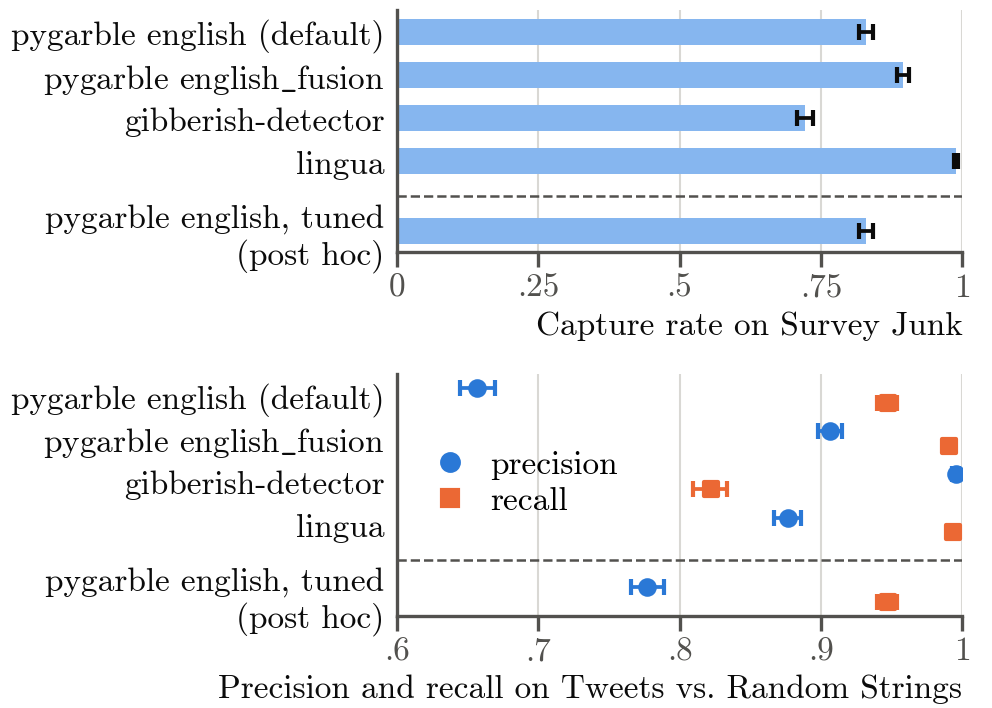
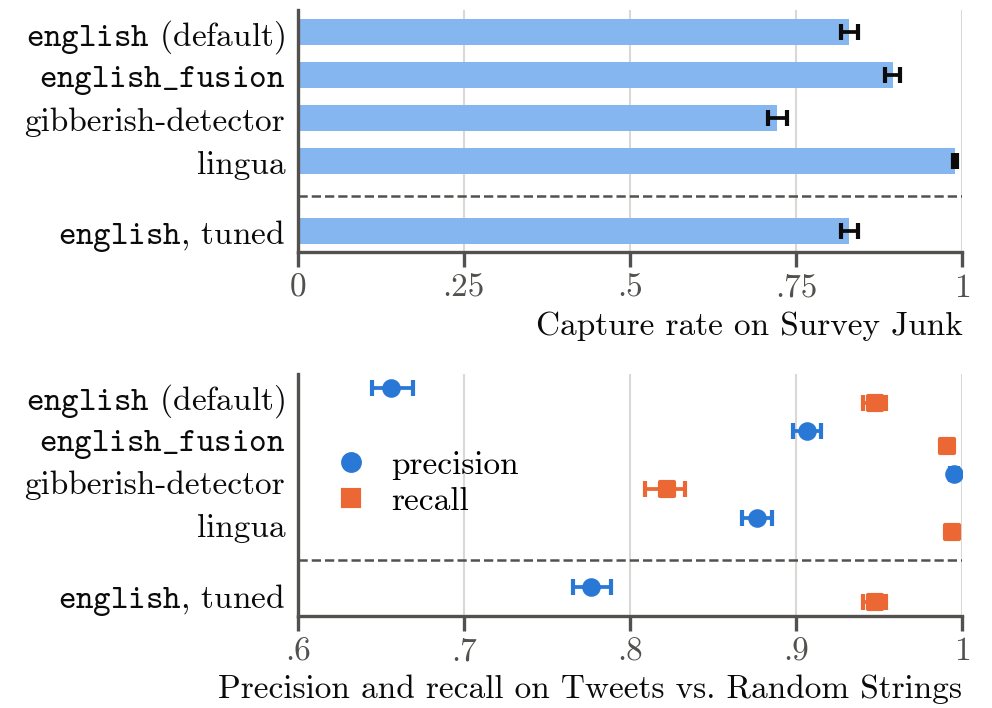
Shorten method labels so no table or figure row wraps
Rows read english (default), english_fusion, gibberish-detector, lingua
and english, tuned, with pygarble profile names in typewriter type. The
Method columns no longer wrap, and the footprint headers are ms/1k,
Import (s), Install (MB) and Deps.

diff --git a/paper/scripts/benchmark/figures.py b/paper/scripts/benchmark/figures.py
@@ -34,19 +34,19 @@ TABLES = PREPRINT / "tables"
 UNTUNED = ("english", "english_fusion", "gibberish_detector", "lingua")
 TUNED = ("english_tuned",)
 LABELS = {
-    "english": r"pygarble \texttt{english} (default)",
-    "english_fusion": r"pygarble \texttt{english\_fusion}",
-    "gibberish_detector": r"\texttt{gibberish-\allowbreak detector}",
-    "lingua": r"\texttt{lingua}",
-    "english_tuned": r"pygarble \texttt{english}, tuned (post hoc)",
-}
-PLAIN = {
-    "english": "pygarble english (default)",
-    # cmr10 has no underscore glyph; mathtext draws one.
-    "english_fusion": r"pygarble english$\_$fusion",
+    "english": r"\texttt{english} (default)",
+    "english_fusion": r"\texttt{english\_fusion}",
     "gibberish_detector": "gibberish-detector",
     "lingua": "lingua",
-    "english_tuned": "pygarble english, tuned\n(post hoc)",
+    "english_tuned": r"\texttt{english}, tuned",
+}
+# Typewriter marks the pygarble profiles, as in the tables.
+PLAIN = {
+    "english": r"$\mathtt{english}$ (default)",
+    "english_fusion": r"$\mathtt{english\_fusion}$",
+    "gibberish_detector": "gibberish-detector",
+    "lingua": "lingua",
+    "english_tuned": r"$\mathtt{english}$, tuned",
 }
 # Runtime dependencies, read from the installed distributions: none of the
 # three declares a requirement. gibberish-detector ships no model and the
@@ -199,7 +199,7 @@ def figure_results(methods: Dict[str, Any]) -> None:
         labelspacing=0.2,
     )
     fig.subplots_adjust(
-        left=0.4, right=0.97, top=0.985, bottom=0.13, hspace=0.5
+        left=0.3, right=0.97, top=0.985, bottom=0.13, hspace=0.5
     )
     save(fig, "fig1_results")
 
@@ -234,7 +234,7 @@ def survey_table(methods: Dict[str, Any]) -> str:
     """Capture rate on Survey Junk, every row of which is junk."""
     lines = [
         "% Generated by paper/scripts/benchmark/figures.py; do not edit.",
-        r"\begin{tabular}{@{}>{\raggedright\arraybackslash}p{3.7cm}cc@{}}",
+        r"\begin{tabular}{@{}lcc@{}}",
         r"\toprule",
         r"Method & Capture rate & 95\% CI \\",
         r"\midrule",
@@ -266,7 +266,7 @@ def tweets_table(methods: Dict[str, Any]) -> str:
 
     lines = [
         "% Generated by paper/scripts/benchmark/figures.py; do not edit.",
-        r"\begin{tabular}{@{}>{\raggedright\arraybackslash}p{2.4cm}"
+        r"\begin{tabular}{@{}l"
         r"@{\hspace{4pt}}c@{\hspace{4pt}}c@{\hspace{4pt}}c@{}}",
         r"\toprule",
         r"Method & Precision & Recall & FPR \\",
@@ -284,9 +284,6 @@ def tweets_table(methods: Dict[str, Any]) -> str:
 def footprint_table(footprint: Dict[str, Any]) -> str:
     """Speed, import time, install size and dependencies per method."""
 
-    def head(*text: str) -> str:
-        return stack(list(text), "c", "b")
-
     def cells(name: str) -> List[str]:
         row = footprint[name]
         return [
@@ -298,17 +295,17 @@ def footprint_table(footprint: Dict[str, Any]) -> str:
 
     lines = [
         "% Generated by paper/scripts/benchmark/figures.py; do not edit.",
-        r"\begin{tabular}{@{}>{\raggedright\arraybackslash}p{2.4cm}"
-        r"@{\hspace{4pt}}r@{\hspace{4pt}}r@{\hspace{4pt}}r"
-        r"@{\hspace{4pt}}l@{}}",
+        r"\begin{tabular}{@{}l"
+        r"@{\hspace{5pt}}r@{\hspace{5pt}}r@{\hspace{5pt}}r"
+        r"@{\hspace{5pt}}l@{}}",
         r"\toprule",
         "Method & "
         + " & ".join(
             [
-                head("ms per", "1,000 texts"),
-                head("Import", "time (s)"),
-                head("Install", "size (MB)"),
-                head("Runtime", "deps."),
+                "ms/1k",
+                "Import (s)",
+                "Install (MB)",
+                "Deps",
             ]
         )
         + r" \\",

diff --git a/paper/preprint/tables/table_tweets.tex b/paper/preprint/tables/table_tweets.tex
@@ -1,13 +1,13 @@
 % Generated by paper/scripts/benchmark/figures.py; do not edit.
-\begin{tabular}{@{}>{\raggedright\arraybackslash}p{2.4cm}@{\hspace{4pt}}c@{\hspace{4pt}}c@{\hspace{4pt}}c@{}}
+\begin{tabular}{@{}l@{\hspace{4pt}}c@{\hspace{4pt}}c@{\hspace{4pt}}c@{}}
 \toprule
 Method & Precision & Recall & FPR \\
 \midrule
-pygarble \texttt{english} (default) & \begin{tabular}[t]{@{}c@{}}0.656 \\ {\scriptsize [0.645, 0.670]}\end{tabular} & \begin{tabular}[t]{@{}c@{}}0.947 \\ {\scriptsize [0.940, 0.954]}\end{tabular} & \begin{tabular}[t]{@{}c@{}}0.332 \\ {\scriptsize [0.320, 0.344]}\end{tabular} \\[2pt]
-pygarble \texttt{english\_fusion} & \begin{tabular}[t]{@{}c@{}}0.906 \\ {\scriptsize [0.898, 0.915]}\end{tabular} & \begin{tabular}[t]{@{}c@{}}0.991 \\ {\scriptsize [0.987, 0.993]}\end{tabular} & \begin{tabular}[t]{@{}c@{}}0.068 \\ {\scriptsize [0.062, 0.075]}\end{tabular} \\[2pt]
-\texttt{gibberish-\allowbreak detector} & \begin{tabular}[t]{@{}c@{}}0.995 \\ {\scriptsize [0.993, 0.997]}\end{tabular} & \begin{tabular}[t]{@{}c@{}}0.822 \\ {\scriptsize [0.809, 0.833]}\end{tabular} & \begin{tabular}[t]{@{}c@{}}0.003 \\ {\scriptsize [0.002, 0.004]}\end{tabular} \\[2pt]
-\texttt{lingua} & \begin{tabular}[t]{@{}c@{}}0.876 \\ {\scriptsize [0.867, 0.886]}\end{tabular} & \begin{tabular}[t]{@{}c@{}}0.994 \\ {\scriptsize [0.991, 0.996]}\end{tabular} & \begin{tabular}[t]{@{}c@{}}0.094 \\ {\scriptsize [0.087, 0.101]}\end{tabular} \\[2pt]
+\texttt{english} (default) & \begin{tabular}[t]{@{}c@{}}0.656 \\ {\scriptsize [0.645, 0.670]}\end{tabular} & \begin{tabular}[t]{@{}c@{}}0.947 \\ {\scriptsize [0.940, 0.954]}\end{tabular} & \begin{tabular}[t]{@{}c@{}}0.332 \\ {\scriptsize [0.320, 0.344]}\end{tabular} \\[2pt]
+\texttt{english\_fusion} & \begin{tabular}[t]{@{}c@{}}0.906 \\ {\scriptsize [0.898, 0.915]}\end{tabular} & \begin{tabular}[t]{@{}c@{}}0.991 \\ {\scriptsize [0.987, 0.993]}\end{tabular} & \begin{tabular}[t]{@{}c@{}}0.068 \\ {\scriptsize [0.062, 0.075]}\end{tabular} \\[2pt]
+gibberish-detector & \begin{tabular}[t]{@{}c@{}}0.995 \\ {\scriptsize [0.993, 0.997]}\end{tabular} & \begin{tabular}[t]{@{}c@{}}0.822 \\ {\scriptsize [0.809, 0.833]}\end{tabular} & \begin{tabular}[t]{@{}c@{}}0.003 \\ {\scriptsize [0.002, 0.004]}\end{tabular} \\[2pt]
+lingua & \begin{tabular}[t]{@{}c@{}}0.876 \\ {\scriptsize [0.867, 0.886]}\end{tabular} & \begin{tabular}[t]{@{}c@{}}0.994 \\ {\scriptsize [0.991, 0.996]}\end{tabular} & \begin{tabular}[t]{@{}c@{}}0.094 \\ {\scriptsize [0.087, 0.101]}\end{tabular} \\[2pt]
 \midrule
-pygarble \texttt{english}, tuned (post hoc) & \begin{tabular}[t]{@{}c@{}}0.777 \\ {\scriptsize [0.766, 0.789]}\end{tabular} & \begin{tabular}[t]{@{}c@{}}0.947 \\ {\scriptsize [0.940, 0.954]}\end{tabular} & \begin{tabular}[t]{@{}c@{}}0.182 \\ {\scriptsize [0.173, 0.192]}\end{tabular} \\[2pt]
+\texttt{english}, tuned & \begin{tabular}[t]{@{}c@{}}0.777 \\ {\scriptsize [0.766, 0.789]}\end{tabular} & \begin{tabular}[t]{@{}c@{}}0.947 \\ {\scriptsize [0.940, 0.954]}\end{tabular} & \begin{tabular}[t]{@{}c@{}}0.182 \\ {\scriptsize [0.173, 0.192]}\end{tabular} \\[2pt]
 \bottomrule
 \end{tabular}

diff --git a/paper/preprint/tables/table_footprint.tex b/paper/preprint/tables/table_footprint.tex
@@ -1,14 +1,14 @@
 % Generated by paper/scripts/benchmark/figures.py; do not edit.
-\begin{tabular}{@{}>{\raggedright\arraybackslash}p{2.4cm}@{\hspace{4pt}}r@{\hspace{4pt}}r@{\hspace{4pt}}r@{\hspace{4pt}}l@{}}
+\begin{tabular}{@{}l@{\hspace{5pt}}r@{\hspace{5pt}}r@{\hspace{5pt}}r@{\hspace{5pt}}l@{}}
 \toprule
-Method & \begin{tabular}[b]{@{}c@{}}ms per \\ 1,000 texts\end{tabular} & \begin{tabular}[b]{@{}c@{}}Import \\ time (s)\end{tabular} & \begin{tabular}[b]{@{}c@{}}Install \\ size (MB)\end{tabular} & \begin{tabular}[b]{@{}c@{}}Runtime \\ deps.\end{tabular} \\
+Method & ms/1k & Import (s) & Install (MB) & Deps \\
 \midrule
-pygarble \texttt{english} (default) & 66.4 & 0.021 & 1.05 & none \\
-pygarble \texttt{english\_fusion} & 62.0 & 0.021 & 1.05 & none \\
-\texttt{gibberish-\allowbreak detector} & 6.8 & 0.039 & 6.51 & none$^a$ \\
-\texttt{lingua} & 1039.0 & 0.001 & 307.47 & none$^b$ \\
+\texttt{english} (default) & 66.4 & 0.021 & 1.05 & none \\
+\texttt{english\_fusion} & 62.0 & 0.021 & 1.05 & none \\
+gibberish-detector & 6.8 & 0.039 & 6.51 & none$^a$ \\
+lingua & 1039.0 & 0.001 & 307.47 & none$^b$ \\
 \midrule
-pygarble \texttt{english}, tuned (post hoc) & 52.7 & 0.021 & 1.05 & none \\
+\texttt{english}, tuned & 52.7 & 0.021 & 1.05 & none \\
 \bottomrule
 \multicolumn{5}{@{}>{\raggedright\arraybackslash}p{\linewidth}@{}}{\footnotesize\rule{0pt}{2.5ex}$^a$\,Ships no model; trains one from a text corpus at start-up (the benchmark uses the project's \texttt{big.txt}, counted in its install size). $^b$\,Bundles its language models in the wheel.} \\
 \end{tabular}

diff --git a/paper/preprint/tables/table_survey.tex b/paper/preprint/tables/table_survey.tex
@@ -1,13 +1,13 @@
 % Generated by paper/scripts/benchmark/figures.py; do not edit.
-\begin{tabular}{@{}>{\raggedright\arraybackslash}p{3.7cm}cc@{}}
+\begin{tabular}{@{}lcc@{}}
 \toprule
 Method & Capture rate & 95\% CI \\
 \midrule
-pygarble \texttt{english} (default) & 0.830 & [0.817, 0.843] \\
-pygarble \texttt{english\_fusion} & 0.895 & [0.884, 0.905] \\
-\texttt{gibberish-\allowbreak detector} & 0.722 & [0.707, 0.736] \\
-\texttt{lingua} & 0.989 & [0.985, 0.992] \\
+\texttt{english} (default) & 0.830 & [0.817, 0.843] \\
+\texttt{english\_fusion} & 0.895 & [0.884, 0.905] \\
+gibberish-detector & 0.722 & [0.707, 0.736] \\
+lingua & 0.989 & [0.985, 0.992] \\
 \midrule
-pygarble \texttt{english}, tuned (post hoc) & 0.830 & [0.817, 0.843] \\
+\texttt{english}, tuned & 0.830 & [0.817, 0.843] \\
 \bottomrule
 \end{tabular}
